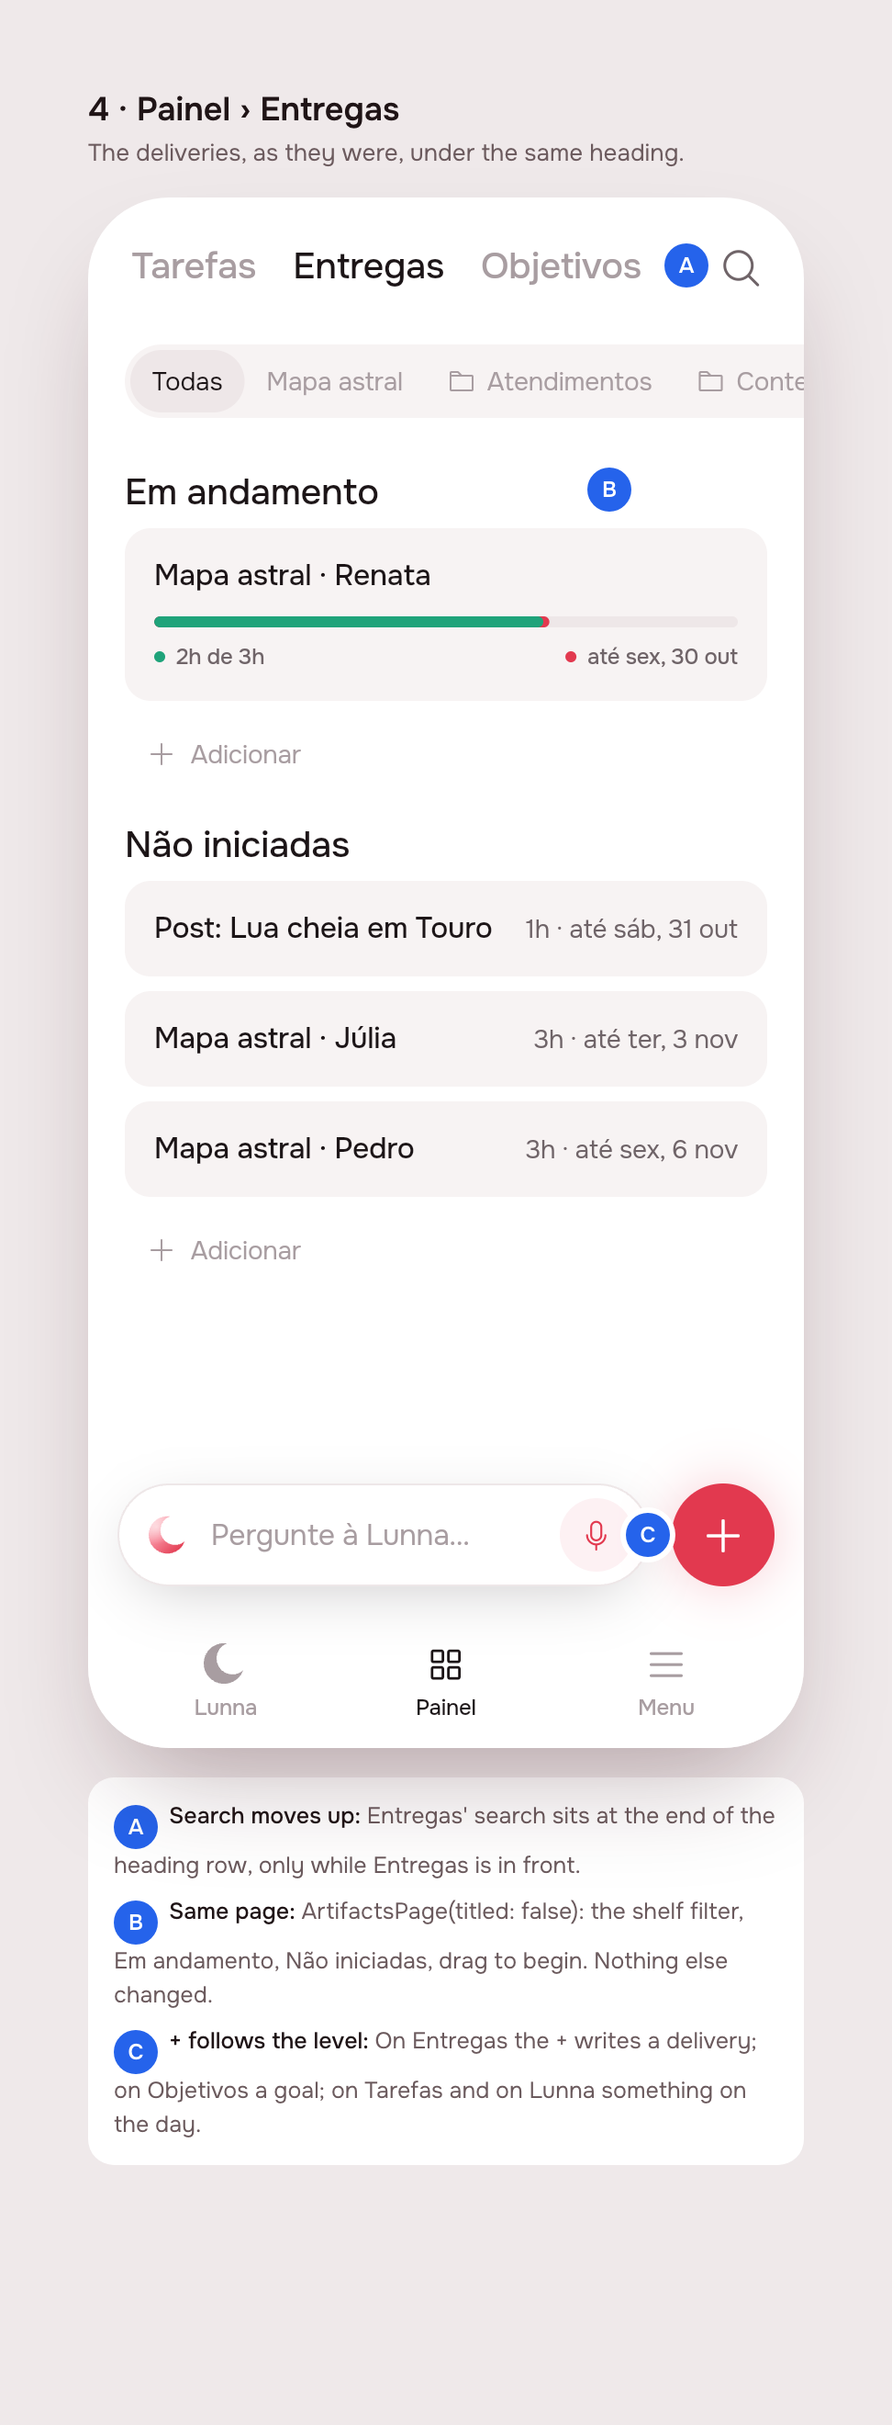
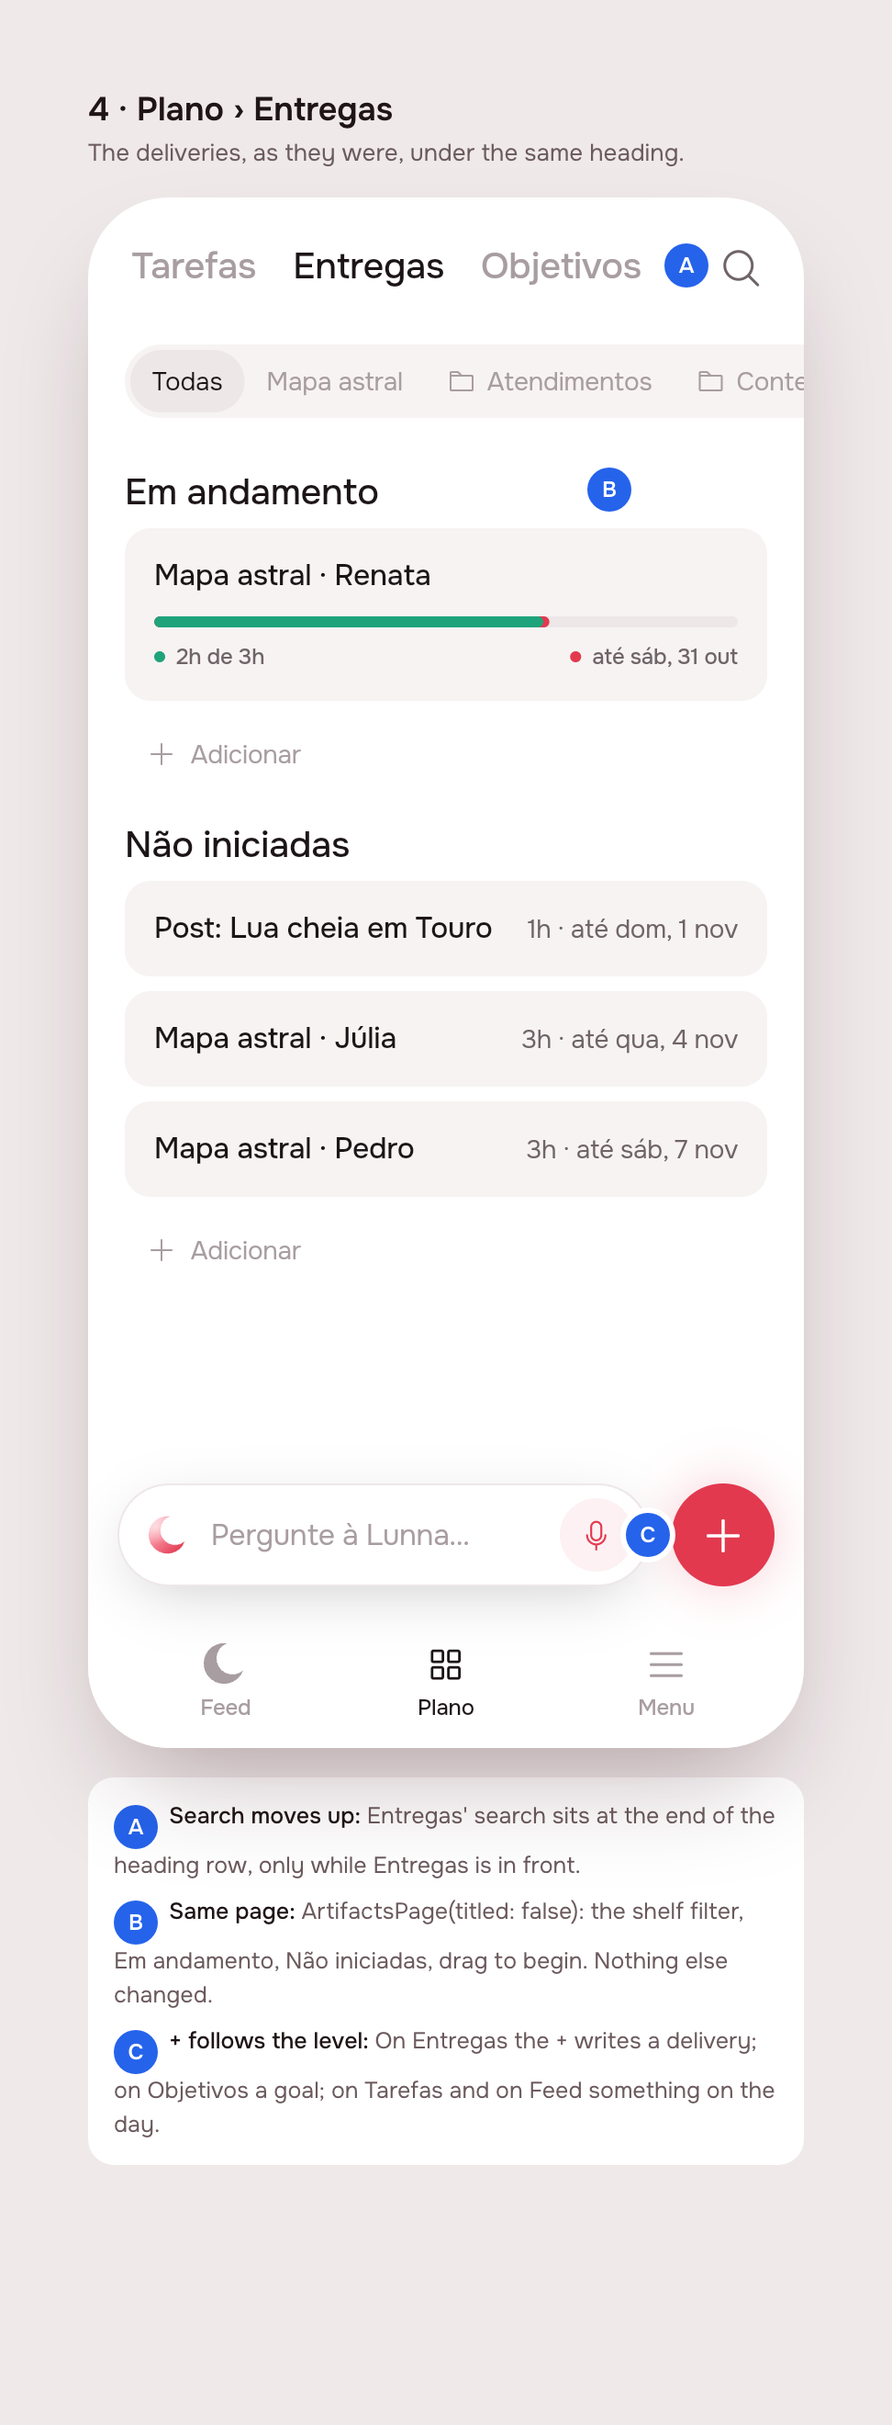
create(#59): revise · Lunna home page

diff --git a/app/lib/shell/view/shell_page.dart b/app/lib/shell/view/shell_page.dart
@@ -18,8 +18,8 @@ import 'package:timeline/timeline.dart';
 /// {@template shell_page}
 /// The app's three destinations, and the button that writes something down.
 ///
-/// **Lunna** is the home ([OverviewPage]): the agent's offer, what runs now
-/// and what follows, the main delivery and the goal. **Painel** holds the
+/// **Feed** is the home ([OverviewPage]): the agent's offer, what runs now
+/// and what follows, the main delivery and the goal. **Plano** holds the
 /// three levels of what she manages ([PanelPage]): Tarefas, Entregas,
 /// Objetivos. **Menu** is the rest.
 ///
@@ -29,7 +29,7 @@ import 'package:timeline/timeline.dart';
 ///
 /// Every tab has the agent's bar at its foot ([AskDock]), in the same
 /// place, and the + beside it. The + writes down whatever is in front: on
-/// Painel's Entregas a delivery, on its Objetivos a goal, anywhere else
+/// Plano's Entregas a delivery, on its Objetivos a goal, anywhere else
 /// something on the timeline, where Tempo is looking; from Menu it brings
 /// Tarefas forward first, so the new block is on screen when the sheet
 /// closes.
@@ -46,10 +46,10 @@ class ShellPage extends StatefulWidget {
 }
 
 class _ShellPageState extends State<ShellPage> {
-  /// Lunna, the home.
+  /// Feed, the home.
   static const _overviewIndex = 0;
 
-  /// Painel: Tarefas, Entregas, Objetivos.
+  /// Plano: Tarefas, Entregas, Objetivos.
   static const _panelIndex = 1;
 
   /// Menu, where the working day's hours are set.
@@ -57,13 +57,13 @@ class _ShellPageState extends State<ShellPage> {
 
   int _index = _overviewIndex;
 
-  /// The level of Painel in front.
+  /// The level of Plano in front.
   PanelTab _panel = PanelTab.tasks;
 
   /// Where Tempo is looking, which is where the button writes.
   final _aim = TimelineAim();
 
-  /// Lista or Calendário, kept here so the Lunna tab can open the calendar.
+  /// Lista or Calendário, kept here so the Feed tab can open the calendar.
   final _mode = TimelineModeCubit();
 
   /// What Agora's "Mudar horário" does: brings Menu forward.
@@ -86,7 +86,7 @@ class _ShellPageState extends State<ShellPage> {
   /// The name the screen in front is reported under: they are one route, so
   /// the router never sees them change.
   String get _screenName => switch (_index) {
-    _overviewIndex => 'Lunna',
+    _overviewIndex => 'Feed',
     _menuIndex => 'Menu',
     _ => switch (_panel) {
       PanelTab.deliveries => 'Entregas',
@@ -112,7 +112,7 @@ class _ShellPageState extends State<ShellPage> {
 
   void _onSelected(int index) => _show(index);
 
-  /// A level of Painel, from its heading or from the Lunna tab.
+  /// A level of Plano, from its heading or from the Feed tab.
   void _openPanel(PanelTab tab) {
     if (tab == PanelTab.calendar) {
       _mode.choose(TimelineMode.calendar);
@@ -196,11 +196,11 @@ class _ShellPageState extends State<ShellPage> {
               items: [
                 AppBottomBarItem(
                   iconData: AppIcons.agent,
-                  label: l10n.appName(AppBrand.id),
+                  label: l10n.shellFeedTab,
                 ),
                 AppBottomBarItem(
                   iconData: AppIcons.panel,
-                  label: l10n.shellPanelTab,
+                  label: l10n.shellPlanTab,
                 ),
                 AppBottomBarItem(
                   iconData: AppIcons.menu,

diff --git a/app/lib/overview/view/overview_page.dart b/app/lib/overview/view/overview_page.dart
@@ -11,18 +11,18 @@ import 'package:lunna/panel/panel.dart';
 import 'package:timeline/timeline.dart';
 
 /// {@template overview_page}
-/// The Lunna tab: what to do now, at a glance, and a way into each level
-/// of Painel.
+/// The Feed tab: what to do now, at a glance, and a way into each level
+/// of Plano.
 ///
 /// From the top: who you are and what time it is; the agent's one offer
 /// ([SuggestionCard]); **Agora**, the block being lived through with its
 /// own controls, and under it the one that follows; the **main delivery**,
 /// the one Entregas puts first; and the **goal** being measured. Each
-/// section's heading ends in the place in Painel it summarises (the day on
+/// section's heading ends in the place in Plano it summarises (the day on
 /// the calendar, Entregas, Objetivos), and each card opens what it is, as it
-/// does in Painel.
+/// does in Plano.
 ///
-/// Nothing here is a list. It is one of each, chosen the way Painel already
+/// Nothing here is a list. It is one of each, chosen the way Plano already
 /// orders them, so the screen stays the same size whatever the day holds.
 /// {@endtemplate}
 class OverviewPage extends StatelessWidget {
@@ -38,7 +38,7 @@ class OverviewPage extends StatelessWidget {
   /// The person's first name, for the greeting.
   final String? firstName;
 
-  /// Brings a tab of Painel forward. [PanelTab.calendar] opens Tarefas on
+  /// Brings a tab of Plano forward. [PanelTab.calendar] opens Tarefas on
   /// the calendar.
   final ValueChanged<PanelTab> onOpen;
 
@@ -175,7 +175,7 @@ class _Header extends StatelessWidget {
   }
 }
 
-/// A section's name, and the way to the place in Painel it summarises.
+/// A section's name, and the way to the place in Plano it summarises.
 class _Heading extends StatelessWidget {
   const _Heading({
     required this.title,

diff --git a/app/lib/lunna_home_preview.dart b/app/lib/lunna_home_preview.dart
@@ -16,13 +16,13 @@ import 'package:lunna/overview/overview.dart';
 import 'package:lunna/panel/panel.dart';
 import 'package:timeline/timeline.dart';
 
-/// The Lunna home and Painel, drawn on the demo's fakes, one scene per `?s=`:
+/// The Feed and Plano, drawn on the demo's fakes, one scene per `?s=`:
 ///
-/// 1. Lunna, the top: the offer, Agora and what follows.
-/// 2. Lunna, scrolled to the end: the main delivery and the goal.
-/// 3. Painel › Tarefas on the calendar, as "Ver o dia" opens it.
-/// 4. Painel › Entregas.
-/// 5. Painel › Objetivos.
+/// 1. Feed, the top: the offer, Agora and what follows.
+/// 2. Feed, scrolled to the end: the main delivery and the goal.
+/// 3. Plano › Tarefas on the calendar, as "Ver o dia" opens it.
+/// 4. Plano › Entregas.
+/// 5. Plano › Objetivos.
 ///
 /// Nothing ships from here.
 void main() {
@@ -227,9 +227,9 @@ class _ShellState extends State<_Shell> {
         items: [
           AppBottomBarItem(
             iconData: AppIcons.agent,
-            label: l10n.appName(AppBrand.id),
+            label: l10n.shellFeedTab,
           ),
-          AppBottomBarItem(iconData: AppIcons.panel, label: l10n.shellPanelTab),
+          AppBottomBarItem(iconData: AppIcons.panel, label: l10n.shellPlanTab),
           AppBottomBarItem(iconData: AppIcons.menu, label: l10n.shellMenuTab),
         ],
       ),

diff --git a/app/lib/panel/view/panel_page.dart b/app/lib/panel/view/panel_page.dart
@@ -5,13 +5,13 @@ import 'package:artifacts/artifacts.dart';
 import 'package:l10n/l10n.dart';
 import 'package:lunna/home/home.dart';
 
-/// A level of Painel, and the one way in that is not a level: Tarefas
+/// A level of Plano, and the one way in that is not a level: Tarefas
 /// opened on the calendar.
 enum PanelTab {
   /// Tarefas, the day, drawn whichever way it was left.
   tasks,
 
-  /// Tarefas on the calendar: what the Lunna tab's "Ver o dia" opens.
+  /// Tarefas on the calendar: what the Feed tab's "Ver o dia" opens.
   calendar,
 
   /// Entregas.
@@ -20,7 +20,7 @@ enum PanelTab {
   /// Objetivos.
   goals;
 
-  /// The word at the top of Painel that is lit for it.
+  /// The word at the top of Plano that is lit for it.
   int get level => switch (this) {
     PanelTab.tasks || PanelTab.calendar => 0,
     PanelTab.deliveries => 1,
@@ -33,7 +33,7 @@ enum PanelTab {
 }
 
 /// {@template panel_page}
-/// Painel: the three levels of what she manages, one over the other, in one
+/// Plano: the three levels of what she manages, one over the other, in one
 /// tab. Tarefas is the day (Lista or Calendário), Entregas the deliveries,
 /// Objetivos the goals: the screens they always were, under one heading.
 ///

diff --git a/app/packages/l10n/lib/src/gen/app_localizations.dart b/app/packages/l10n/lib/src/gen/app_localizations.dart
@@ -2717,11 +2717,17 @@ abstract class AppLocalizations {
   /// **'Conta desde {date}: uns {amount} por semana.'**
   String goalReadbackSince(String date, String amount);
 
-  /// No description provided for @shellPanelTab.
+  /// No description provided for @shellFeedTab.
   ///
   /// In pt, this message translates to:
-  /// **'Painel'**
-  String get shellPanelTab;
+  /// **'Feed'**
+  String get shellFeedTab;
+
+  /// No description provided for @shellPlanTab.
+  ///
+  /// In pt, this message translates to:
+  /// **'Plano'**
+  String get shellPlanTab;
 
   /// No description provided for @panelTasks.
   ///

diff --git a/app/packages/app_ui/lib/src/app_icons/app_icons.dart b/app/packages/app_ui/lib/src/app_icons/app_icons.dart
@@ -177,7 +177,7 @@ class AppIcons {
   /// A goal: an amount, or a count, to reach in a stretch of time.
   static const goal = AppIconData.phosphor(PhosphorIconsRegular.target);
 
-  /// Painel: the tasks, the deliveries and the goals, kept in one place.
+  /// Plano: the tasks, the deliveries and the goals, kept in one place.
   static const panel = AppIconData.phosphor(PhosphorIconsRegular.squaresFour);
 
   /// Looks through a list.

diff --git a/app/packages/l10n/lib/src/gen/app_localizations_pt.dart b/app/packages/l10n/lib/src/gen/app_localizations_pt.dart
@@ -1739,7 +1739,10 @@ class AppLocalizationsPt extends AppLocalizations {
   }
 
   @override
-  String get shellPanelTab => 'Painel';
+  String get shellFeedTab => 'Feed';
+
+  @override
+  String get shellPlanTab => 'Plano';
 
   @override
   String get panelTasks => 'Tarefas';

diff --git a/product/delivery/2026-10-28-lunna-home/README.md b/product/delivery/2026-10-28-lunna-home/README.md
@@ -1,7 +1,8 @@
-# Lunna home: one home, one Painel, three tabs
+# Lunna home: Feed, Plano, Menu
 
-Track: **mockup**. Design session, drawn by the real app (Lunna brand), waiting
-for approval on [issue #59](https://github.com/pietroid/lunna/issues/59).
+Track: **mockup**. Design session, drawn by the real app (Lunna brand), on
+[issue #59](https://github.com/pietroid/lunna/issues/59). Round 2: the tabs
+were renamed as asked; the rest was approved.
 
 ## 1. The prompt
 
@@ -21,6 +22,12 @@ for approval on [issue #59](https://github.com/pietroid/lunna/issues/59).
 >
 > In this control pane there is a tab bar where user can select t multiple levels: tasks, delivers, goals.
 
+The first board was reviewed on the issue, and the person replied:
+
+> Change Lunna by "Feed", and Panel by "Plan"
+>
+> The rest is perfect
+
 ## 2. The design
 
 ![The board](img/mockup-board.png)
@@ -29,12 +36,12 @@ Board data: [board.json](board.json). Screens one by one:
 [1](img/mockup-1.png) · [2](img/mockup-2.png) · [3](img/mockup-3.png) ·
 [4](img/mockup-4.png) · [5](img/mockup-5.png).
 
-**The flow.** The app opens on **Lunna**, the home. From top to bottom it shows
+**The flow.** The app opens on **Feed**, the home. From top to bottom it shows
 Lunna's one suggestion, **Agora** (the block running, with its buttons) and
 **Em seguida** (the next one), then the **main delivery** and the **goal**.
-Each section heading ends in a pill that opens its level in **Painel**:
+Each section heading ends in a pill that opens its level in **Plano**:
 *Ver o dia* opens Tarefas on the calendar, *Entregas* and *Objetivos* open
-theirs. Painel is Tempo, Entregas and Objetivos as they are today, under one
+theirs. Plano is Tempo, Entregas and Objetivos as they are today, under one
 heading whose words are the tabs.
 
 **References** (taken from patterns I know, not browsed; Mobbin wasn't
@@ -50,31 +57,35 @@ used):
 
 | Pin | Decision | Why |
 |-----|----------|-----|
-| 1A | The existing `SuggestionCard` moves from Tempo to the top of the Lunna tab | The issue's "next suggestion from Lunna" is the offer the agent already makes; the home is where it belongs, and Tempo stays the day itself |
+| 1A | The existing `SuggestionCard` moves from Tempo to the top of the Feed tab | The issue's "next suggestion from Lunna" is the offer the agent already makes; the home is where it belongs, and Tempo stays the day itself |
 | 1B | Encaixar is the only filled accent on the home | One primary action per screen |
 | 1C, 2A, 2C | Each section heading ends in an `AppPillButton` naming where it leads: *Ver o dia* (calendar icon), *Entregas*, *Objetivos* | These are the issue's CTAs. They have one shape, the label names the destination, and none of them competes with Encaixar |
 | 1D | Agora is the same `EventTile` with the same controls as Tempo's Agora (pause, −10/+10, done, or play when waiting) | "The current task playing" without a new widget to learn |
 | 1E | Em seguida is **one** card: the next card on the calendar, task or fixed block | The person plans around whatever comes next. The home is not a list |
 | 2B | Main delivery is Entregas' first: the most urgent under way, else the first not begun (`progressGroups`). It uses the real `ArtifactRow`, and a tap opens it on Pendentes | Entregas already decides the order, so the home doesn't invent a second ranking |
 | 2D | The goal is the one being measured now, drawn as Objetivos' `GoalCard`. A tap opens its sheet | Manage it where it shows |
-| 1F | Tab 1 is named after the brand (`appName`: Lunna / Focus), with the crescent (`AppIcons.agent`) | The issue names the tab "Lunna"; on Focus it reads "Focus" |
-| 1G | Tab 2 is **Painel** ("control pane", shorter), icon Phosphor *squares-four* (`AppIcons.panel`, new) | A short Portuguese word. Four squares read as "the pieces" without being a list or a calendar |
-| 3A | Painel's levels are a **heading of words** (`AppTitleTabs`, new in app_ui): ink for the one in front, `ink3` for the others, no pill | Picking a level picks what the screen is about, so it reads as the title. Lista/Calendário below stays the only control that looks like a control, so two segmented bars never stack |
+| 1F | Tab 1 is **Feed** in both brands (`shellFeedTab`), with the crescent (`AppIcons.agent`) | Asked in review ("Change Lunna by Feed"). It no longer names the brand, so Focus reads "Feed" too |
+| 1G | Tab 2 is **Plano** (`shellPlanTab`), icon Phosphor *squares-four* (`AppIcons.plan`, new) | Asked in review ("Panel by Plan"), in Portuguese like every other label. Four squares read as "the pieces" without being a list or a calendar |
+| 3A | Plano's levels are a **heading of words** (`AppTitleTabs`, new in app_ui): ink for the one in front, `ink3` for the others, no pill | Picking a level picks what the screen is about, so it reads as the title. Lista/Calendário below stays the only control that looks like a control, so two segmented bars never stack |
 | 3B | `TimelineModeCubit` moves up to the shell | So *Ver o dia* can open Tarefas on the calendar |
-| 3C | Tempo itself is unchanged; only its greeting (and the account menu behind it) and the suggestion move to the Lunna tab | "The other screens are still the same" |
-| 4A | Entregas' search moves to the end of Painel's heading, only while Entregas is in front | Its own title row is gone |
-| 4C | The + follows what is in front: a delivery on Entregas, a goal on Objetivos, something on the day on Tarefas, Lunna and Menu | Same rule as today, one level deeper |
+| 3C | Tempo itself is unchanged; only its greeting (and the account menu behind it) and the suggestion move to the Feed tab | "The other screens are still the same" |
+| 4A | Entregas' search moves to the end of Plano's heading, only while Entregas is in front | Its own title row is gone |
+| 4C | The + follows what is in front: a delivery on Entregas, a goal on Objetivos, something on the day on Tarefas, Feed and Menu | Same rule as today, one level deeper |
 
-**The icon.** Only `AppIcons.panel` is new (Phosphor `squaresFour`). The
-Lunna tab reuses the brand crescent (`AppIcons.agent`). There are no AI
+**The icon.** Only `AppIcons.plan` is new (Phosphor `squaresFour`). The
+Feed tab reuses the brand crescent (`AppIcons.agent`). There are no AI
 glyphs.
 
 ### Decided unattended
 
-- **The tab name is "Painel".** It is short, it's Portuguese, and the issue
-  asked for something shorter than "control pane".
-- **The app opens on Lunna**, not on Painel.
-- **The + on the Lunna tab writes on the day without leaving the home.**
+- **"Plan" is written "Plano".** Every label the person reads is Brazilian
+  Portuguese (AGENTS.md), so the review's "Plan" is drawn in Portuguese.
+  "Feed" is the same word in both languages and stays as asked. If the tab
+  should read "Plan" literally, it is one string (`shellPlanTab`).
+- **Feed is Feed on Focus too.** The first tab used to be the brand's
+  name; "Feed" names what it is, so both brands share it.
+- **The app opens on Feed**, not on Plano.
+- **The + on the Feed tab writes on the day without leaving the home.**
   The new task shows up in Em seguida when it lands there. From Menu it still
   brings Tarefas forward first.
 - **The home doesn't ask the agent for anything new yet.** The issue says
@@ -94,20 +105,20 @@ them):**
 - `app/lib/lunna_home_preview.dart`: the preview entry point, five scenes
   (`?s=1..5`). It runs on the demo fakes plus a canned suggestion. Delete it
   after Phase 4's prints.
-- `app/lib/overview/` (new): `OverviewPage`, the Lunna tab.
+- `app/lib/overview/` (new): `OverviewPage`, the Feed tab.
 - `app/lib/panel/` (new): `PanelPage` and `PanelTab` (tasks, calendar,
   deliveries, goals).
-- `app/lib/shell/view/shell_page.dart`: three tabs, `TimelineModeCubit`
-  owned by the shell, the + per Painel level, the account menu handed to the
-  home, and analytics screen names (Lunna / Tempo / Entregas / Objetivos /
+- `app/lib/shell/view/shell_page.dart`: three tabs (Feed, Plano, Menu), `TimelineModeCubit`
+  owned by the shell, the + per Plano level, the account menu handed to the
+  home, and analytics screen names (Feed / Tempo / Entregas / Objetivos /
   Menu).
 - `app/lib/home/view/home_page.dart`: Tempo without its header or
   suggestion. It no longer creates `TimelineModeCubit` or `SuggestionCubit`.
 - `app/packages/app_ui/`: `AppTitleTabs` (new widget, exported) and
-  `AppIcons.panel`.
+  `AppIcons.panel` (to be renamed `AppIcons.plan`).
 - `app/packages/artifacts/`: `ArtifactsPage(titled:)` and
   `GoalsPage(titled:)`.
-- `app/packages/l10n/`: `shellPanelTab`, `panelTasks`, `overview*`,
+- `app/packages/l10n/`: `shellFeedTab` ("Feed"), `shellPlanTab` ("Plano"), `panelTasks`, `overview*`,
   `demoSuggestionRenata` (`gen/` regenerated).
 
 **What the build must do**
@@ -116,30 +127,35 @@ them):**
 - **App:**
   - Rename `HomePage` to something like `TempoPage` (it is no longer the
     home), and maybe `lib/home/` along with it.
-  - Have the Lunna tab load the suggestion again when it comes to the front,
+  - Name the code after the tabs: `lib/overview/` → `lib/feed/`
+    (`FeedPage`), `lib/panel/` → `lib/plan/` (`PlanPage`, `PlanTab`),
+    `AppIcons.panel` → `AppIcons.plan`, `panelTasks` → `planTasks`,
+    `overview*` strings → `feed*`.
+  - Have the Feed tab load the suggestion again when it comes to the front,
     and when the day changes (today it loads once).
   - Keep the bottom of the home clear of the dock. On the prints, the last
     line of the goal card ends under the bar. The same is true of Objetivos
     today, so `kNotesDockClearance` may need the bottom bar's height on
     pages that scroll under it.
-  - On Lunna, *Ver o dia* also needs the calendar to scroll to now, which it
+  - On Feed, *Ver o dia* also needs the calendar to scroll to now, which it
     already does when it opens.
   - The landing's demo (`lib/demo/`) keeps its own shell. Decide whether
-    its phone shows the new Lunna tab as its first chapter (probably yes,
+    its phone shows the new Feed tab as its first chapter (probably yes,
     for the "agent" chapter), and update `product/spec/landing.md` to match.
   - Tests: widget tests for `OverviewPage` (the empty states "Nada em
     andamento", "Nenhuma entrega em andamento" and "Nenhum objetivo agora";
     the main delivery being Entregas' first; each pill calling `onOpen`
     with the right `PanelTab`), for `PanelPage` (switching levels, search
     only on Entregas), and for `AppTitleTabs`. Run them under both brands.
-  - AGENTS.md "The app shell": three tabs (Lunna, Painel, Menu), where the
+  - AGENTS.md "The app shell": three tabs (Feed, Plano, Menu), where the
     greeting and suggestion live now, and the Layout block (`overview/`,
     `panel/`).
-  - Shoot both brands. On Focus the first tab reads "Focus".
+  - Shoot both brands. Both read Feed · Plano · Menu.
 
 **Open questions** (on the issue)
-- Is "Painel" the name you want? Alternatives: "Gestão", "Tudo".
-- Should the Lunna tab later show more than one suggestion (a short list
+- The second tab reads "Plano" (pt-BR for the "Plan" asked). Keep it,
+  or write "Plan" in English?
+- Should the Feed tab later show more than one suggestion (a short list
   ranked by the agent), or stay with one?
 
 **Design session cost:** the queue measures it and writes the figures in the
